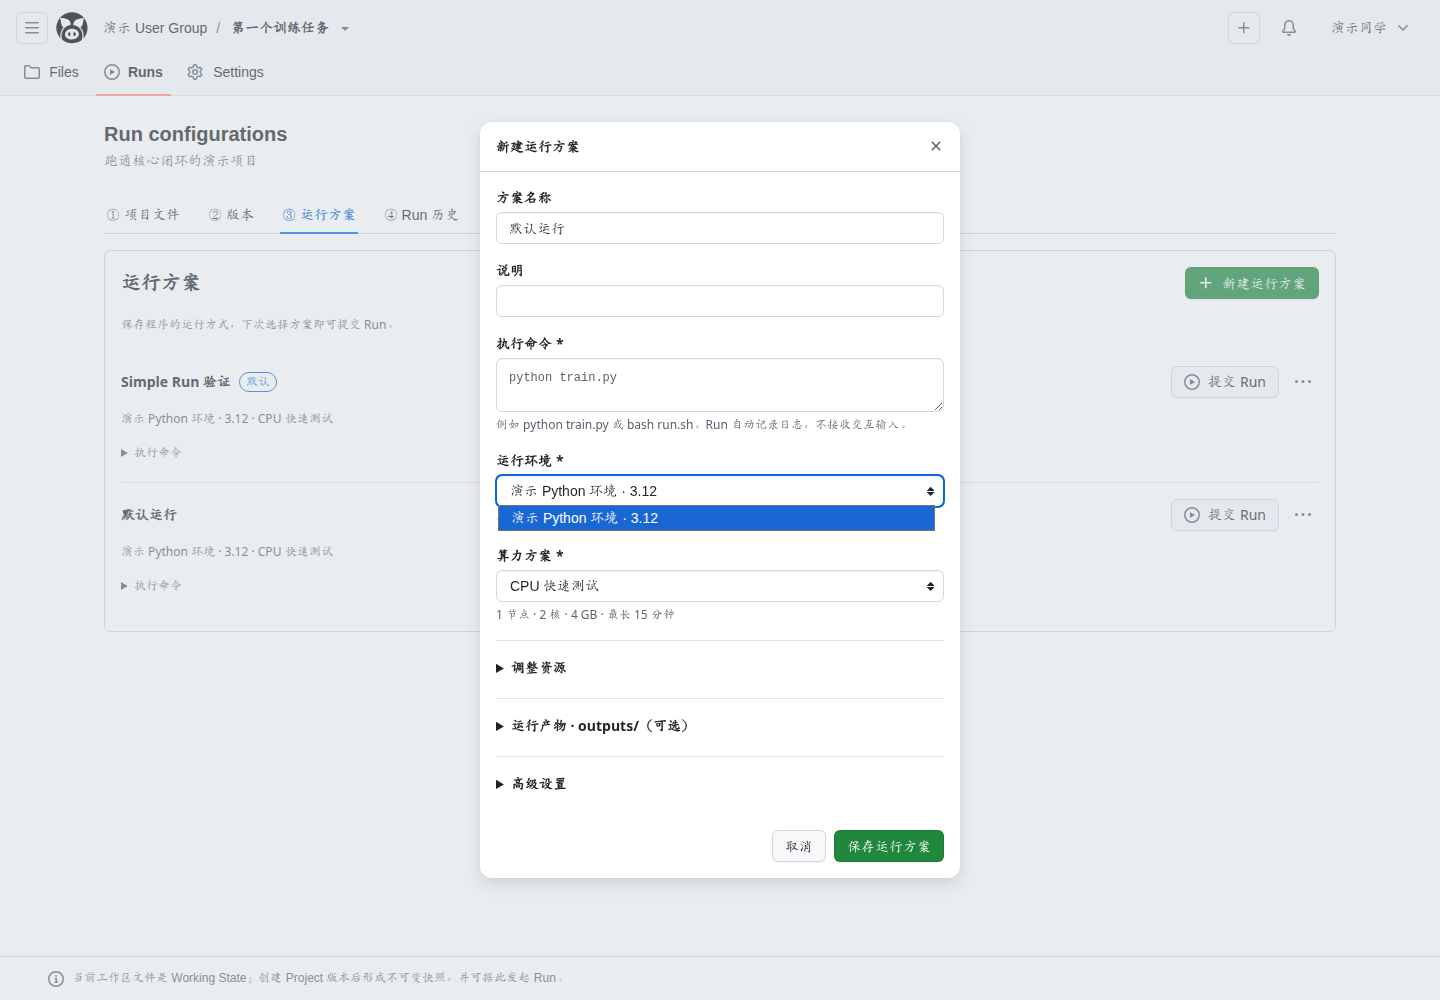
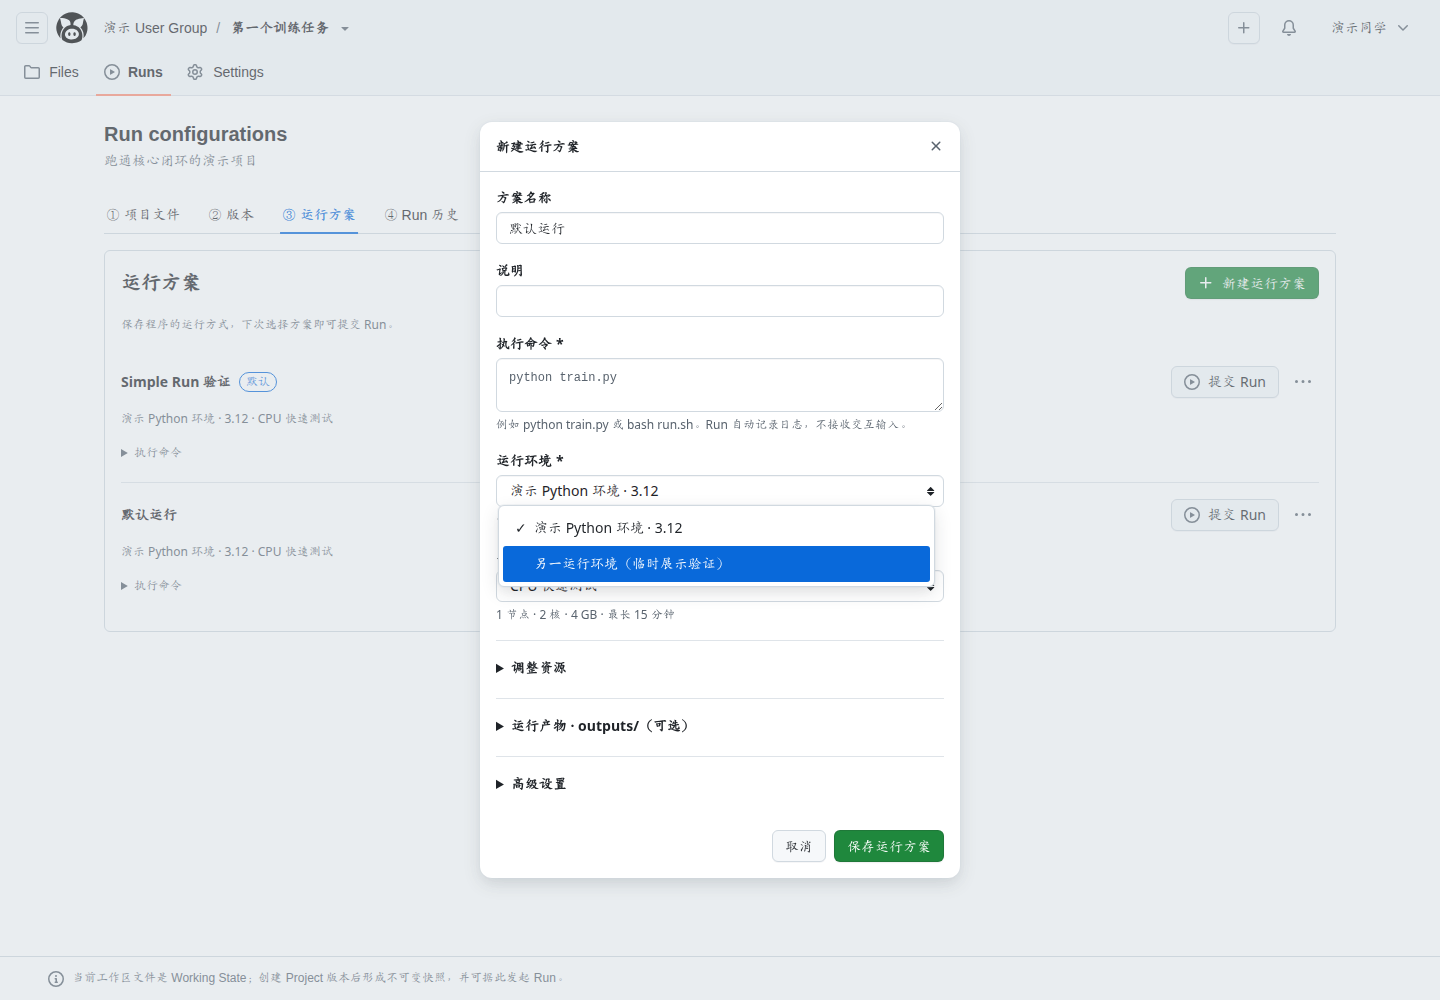
fix(run-config): highlight hovered options instead of selected values

Changed region(s): [[0.3438, 0.465, 0.6562, 0.589]]

diff --git a/frontend/src/components/runconfig/simpleRun.module.css b/frontend/src/components/runconfig/simpleRun.module.css
@@ -152,7 +152,42 @@
   font-weight: var(--base-text-weight-semibold);
 }
 
-.form select option:checked:not(:disabled) {
-  background-color: var(--bgColor-accent-emphasis);
-  color: var(--fgColor-onEmphasis);
+/* Keep native selection semantics while styling the open picker separately. */
+@supports (appearance: base-select) {
+  .form select,
+  .form select::picker(select) {
+    appearance: base-select;
+  }
+  .form select {
+    font-family: inherit;
+  }
+  .form select::picker-icon {
+    display: none;
+  }
+  .form select::picker(select) {
+    padding: var(--base-size-4);
+    font: inherit;
+    max-width: calc(100vw - var(--base-size-32));
+    border: var(--borderWidth-thin) solid var(--borderColor-default);
+    border-radius: var(--borderRadius-medium);
+    background: var(--bgColor-default);
+    box-shadow: var(--shadow-floating-small);
+  }
+  .form select option {
+    padding: var(--base-size-8) var(--base-size-12);
+    border-radius: var(--borderRadius-small);
+    background: var(--bgColor-default);
+    color: var(--fgColor-default);
+    font-weight: var(--base-text-weight-normal);
+    white-space: normal;
+    overflow-wrap: anywhere;
+  }
+  .form select option:disabled {
+    color: var(--fgColor-disabled);
+  }
+  .form select option:hover:not(:disabled),
+  .form select option:focus-visible:not(:disabled) {
+    background: var(--bgColor-accent-emphasis);
+    color: var(--fgColor-onEmphasis);
+  }
 }

diff --git a/frontend/src/components/run/RunSubmissionDialog.tsx b/frontend/src/components/run/RunSubmissionDialog.tsx
@@ -168,7 +168,18 @@ export function RunSubmissionDialog({
         },
       ]}
     >
-      <div className={styles.form}>
+      <div
+        className={styles.form}
+        onKeyDownCapture={(event) => {
+          if (
+            event.key === 'Escape' &&
+            event.target instanceof Element &&
+            event.target.closest('select')?.matches(':open')
+          ) {
+            event.stopPropagation()
+          }
+        }}
+      >
         {loading ? (
           <p role="status">正在加载运行方案…</p>
         ) : loadError ? (

diff --git a/frontend/src/components/runconfig/RunConfigurationModal.tsx b/frontend/src/components/runconfig/RunConfigurationModal.tsx
@@ -204,6 +204,15 @@ function ConfigurationEditor({
       <form
         ref={form}
         className={styles.form}
+        onKeyDownCapture={(event) => {
+          if (
+            event.key === 'Escape' &&
+            event.target instanceof Element &&
+            event.target.closest('select')?.matches(':open')
+          ) {
+            event.stopPropagation()
+          }
+        }}
         noValidate
         onSubmit={(e) => {
           e.preventDefault()

diff --git a/docs/evidence/issue-81/README.md b/docs/evidence/issue-81/README.md
@@ -15,3 +15,5 @@ Slurm 的 batch I/O 证据来自 `backend/tests/integration/scheduler/test_slurm
 合入 main（`d28f934`）后完整 `make check` 通过：后端 393 passed、3 skipped；前端 272 passed；代理测试 13 passed、1 skipped；生产构建与生成契约检查通过。
 
 交互评审后的 `revised-*` 截图记录名称与说明常显、小标题字号、带边框的删除按钮、默认折叠的资源区及命令换行、集中操作菜单。截图使用本地演示数据，已在合入最新 main 后重新验证和截图。
+
+下拉高亮修正：`revised-select-*` 区分已选项勾选标记与蓝色 hover / 键盘焦点。截图中的第二项仅为浏览器 DOM 临时测试选项，未保存到 API。Chromium 实测 hover、移开恢复、键盘选择、Escape 仅关闭下拉和窄屏布局。使用 CSS `appearance: base-select` 渐进增强；不支持此能力的浏览器保留系统原生下拉样式，不保证相同配色，参见 [MDN](https://developer.mozilla.org/en-US/docs/Learn_web_development/Extensions/Forms/Customizable_select)。
